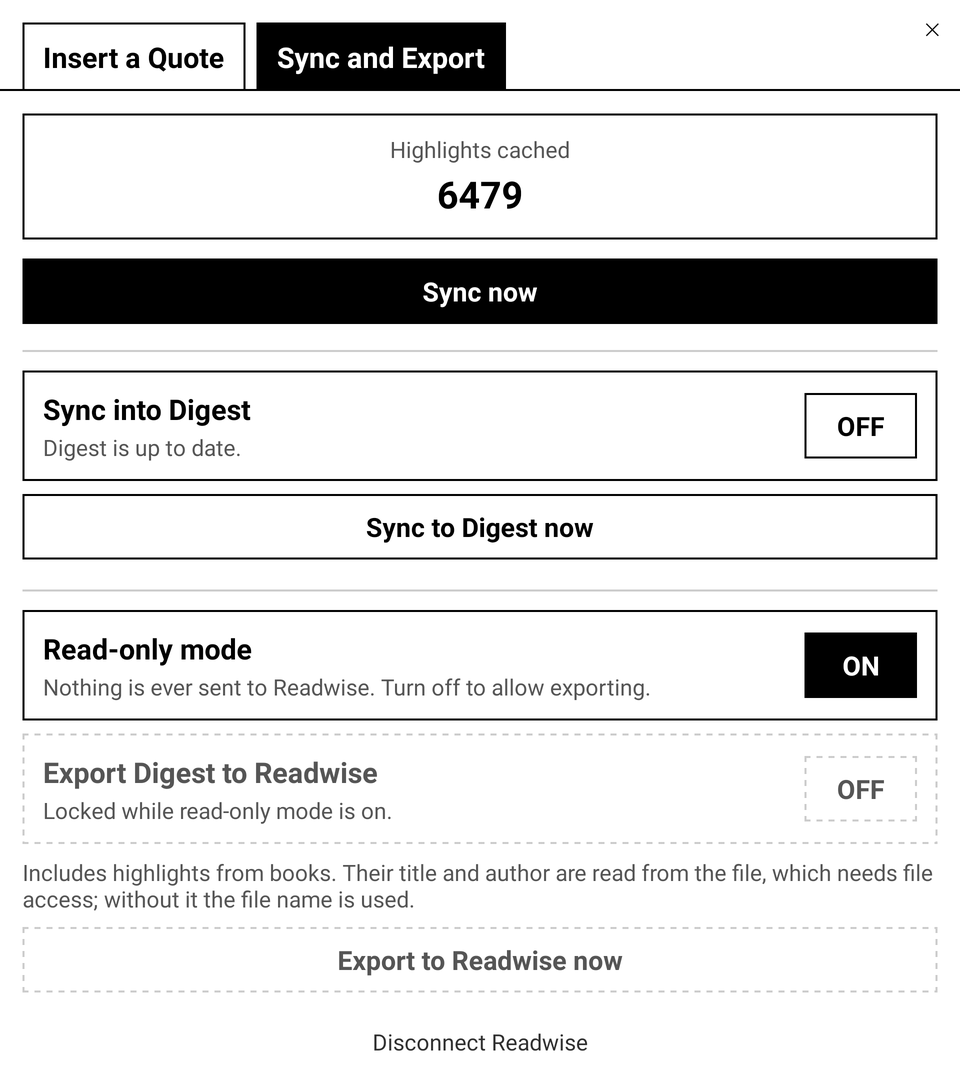
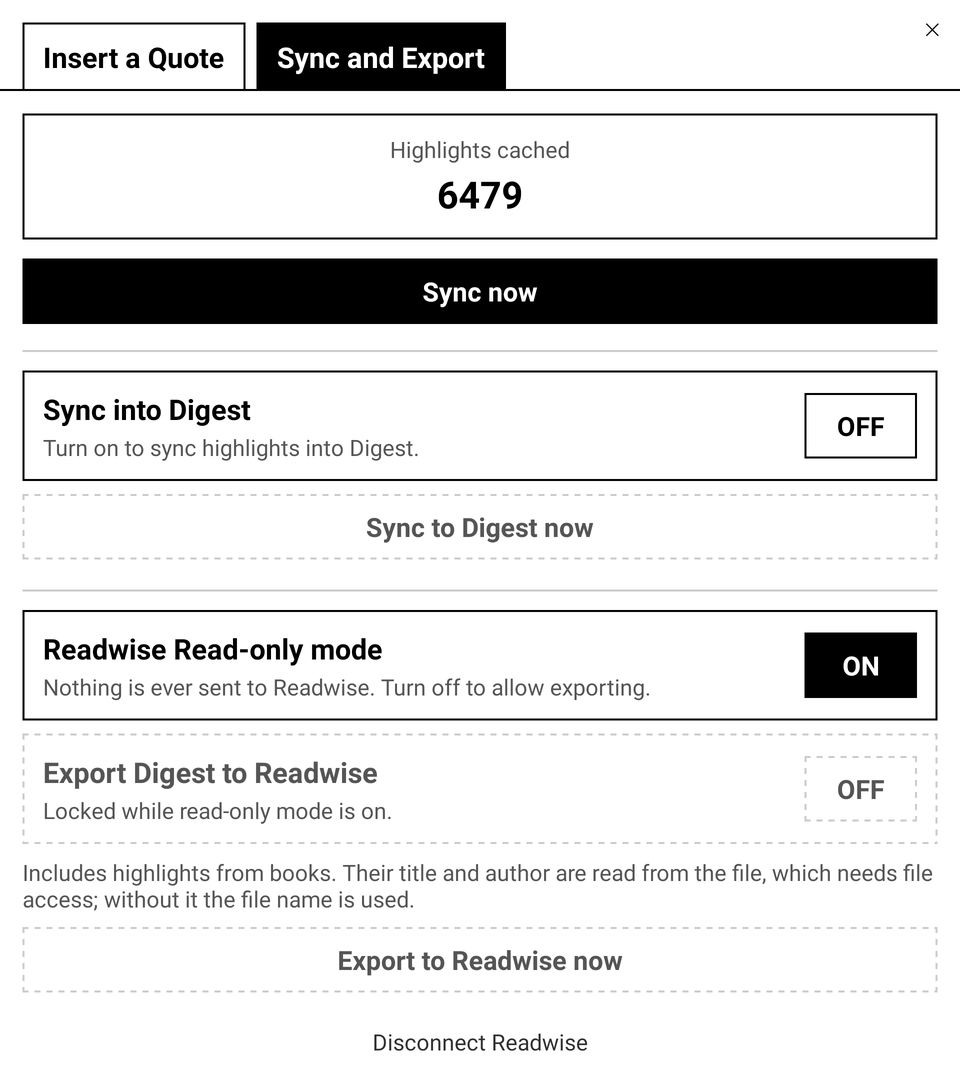
UI: lock 'Sync to Digest now' while Sync into Digest is off; rename to 'Readwise Read-only mode'
The Digest button gets the same locked look as the export button (dashed, muted, not tappable) while its switch is off, and the switch says why. The read-only toggle and its confirmation are titled 'Readwise Read-only mode' so it is clear what the mode protects. Verified on the device (locked when off, unlocked when on; setting restored). README screenshot refreshed.

diff --git a/plugin/src/screens/SyncExport.tsx b/plugin/src/screens/SyncExport.tsx
@@ -244,11 +244,13 @@ export default function SyncExport({onSignOut}: Props): React.JSX.Element {
         <Toggle
           label="Sync into Digest"
           subtext={
-            digestPendingCount === null
-              ? ' '
-              : digestPendingCount === 0
-                ? 'Digest is up to date.'
-                : `${digestPendingCount} highlight${digestPendingCount === 1 ? '' : 's'} not yet in Digest.`
+            !digestSyncEnabled
+              ? `Turn on to sync highlights into Digest.${digestPendingCount ? ` (${digestPendingCount} waiting.)` : ''}`
+              : digestPendingCount === null
+                ? ' '
+                : digestPendingCount === 0
+                  ? 'Digest is up to date.'
+                  : `${digestPendingCount} highlight${digestPendingCount === 1 ? '' : 's'} not yet in Digest.`
           }
           value={digestSyncEnabled}
           onChange={handleToggleDigestSync}
@@ -257,13 +259,19 @@ export default function SyncExport({onSignOut}: Props): React.JSX.Element {
         {digestError ? <Text style={styles.error}>{digestError}</Text> : null}
 
         <TouchableOpacity
-          style={[styles.secondaryButton, digestSyncing && styles.buttonDisabled]}
+          style={[
+            styles.secondaryButton,
+            digestSyncing && styles.buttonDisabled,
+            !digestSyncEnabled && styles.buttonLocked,
+          ]}
           onPress={handleDigestSync}
-          disabled={digestSyncing}>
+          disabled={digestSyncing || !digestSyncEnabled}>
           {digestSyncing ? (
             <ActivityIndicator color={Color.text} />
           ) : (
-            <Text style={styles.secondaryButtonText}>Sync to Digest now</Text>
+            <Text style={[styles.secondaryButtonText, !digestSyncEnabled && styles.lockedLabel]}>
+              Sync to Digest now
+            </Text>
           )}
         </TouchableOpacity>
 
@@ -278,7 +286,7 @@ export default function SyncExport({onSignOut}: Props): React.JSX.Element {
 
       <View style={styles.section}>
         <Toggle
-          label="Read-only mode"
+          label="Readwise Read-only mode"
           subtext={
             readOnly
               ? 'Nothing is ever sent to Readwise. Turn off to allow exporting.'
@@ -289,7 +297,7 @@ export default function SyncExport({onSignOut}: Props): React.JSX.Element {
         />
         {confirming === 'leave-read-only' ? (
           <ConfirmPanel
-            title="Turn off read-only mode?"
+            title="Turn off Readwise read-only mode?"
             message="Exporting will be able to add highlights to your Readwise account."
             confirmLabel="Turn off"
             onConfirm={confirmLeaveReadOnly}

diff --git a/README.md b/README.md
@@ -29,9 +29,9 @@ The result is a normal textbox on the page — resizable/movable like anything e
 ### Sync and Export tab
 
 Highlight count, manual "Sync now", and large tap-anywhere toggles (sized for the Nomad's e-ink display)
-for the two Digest integrations below and for **Read-only mode**.
+for the two Digest integrations below and for **Readwise Read-only mode**.
 
-**Read-only mode is on by default**: the plugin only reads from Readwise, and nothing it does can change
+**Readwise Read-only mode is on by default**: the plugin only reads from Readwise, and nothing it does can change
 your Readwise account. While it is on, the export controls are locked and say why. Turning it off asks
 for confirmation. The rule is enforced in the Readwise client itself (not just by disabling buttons), so
 no screen or future feature can write around it.
